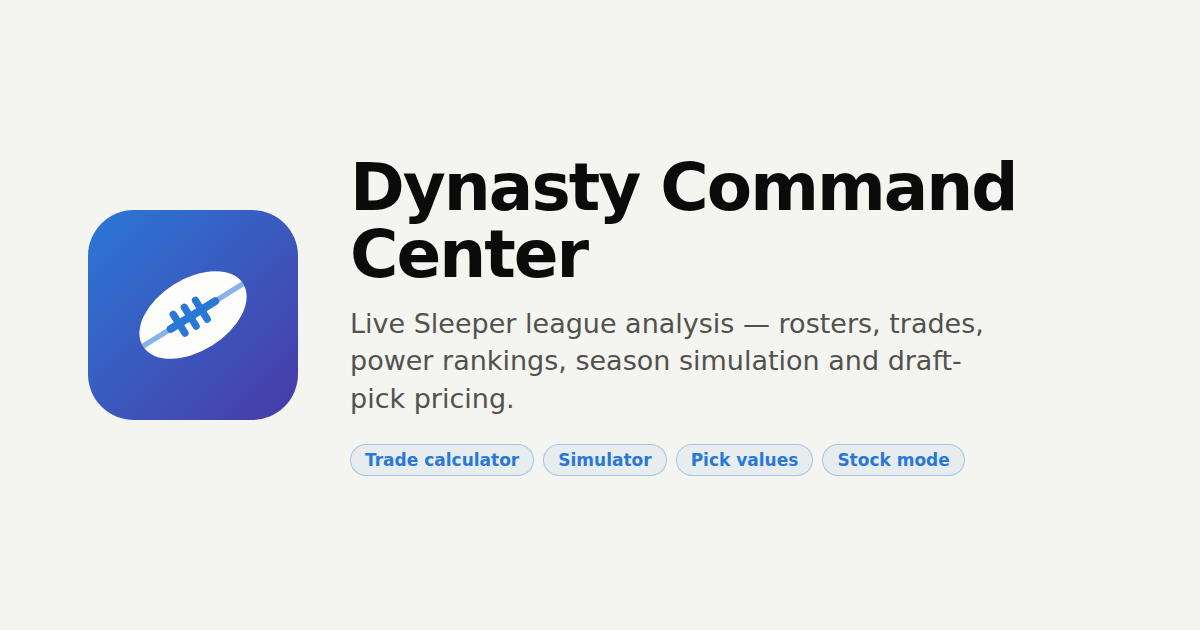
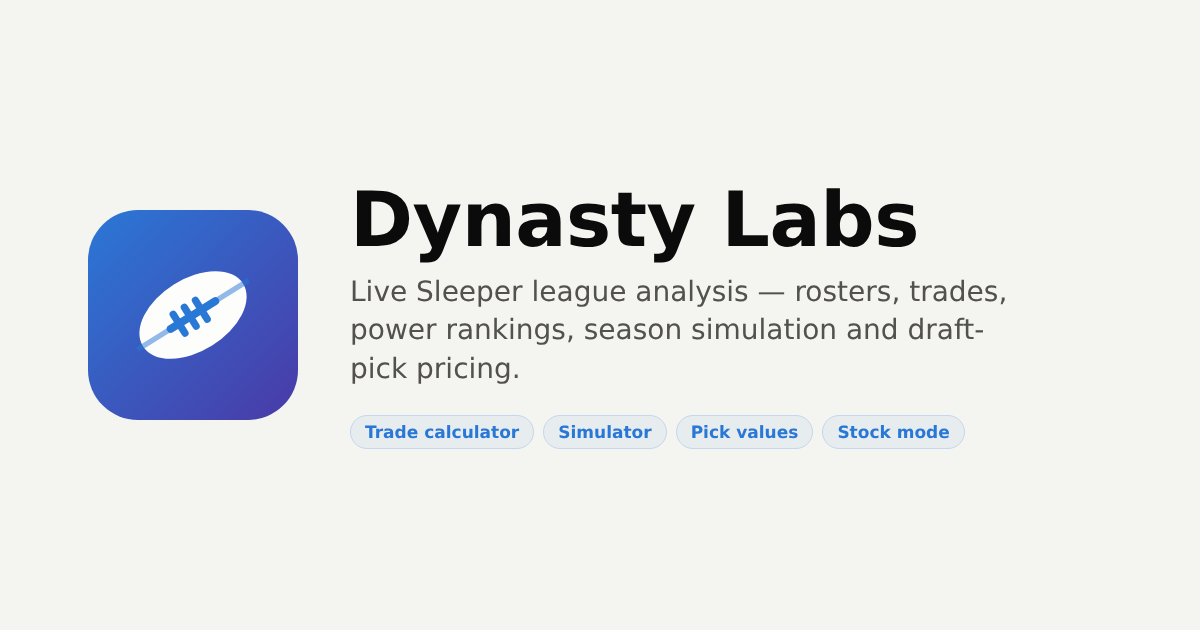
Rebrand to Dynasty Labs
Page title, social-preview and install names (title, og:title, og:site_name,
apple-mobile-web-app-title, web manifest name and short name), sidebar brand
(Dynasty / Labs, Redraft / Labs), start screen logo and headline, README title,
favicon label and the core.js header. The social-preview image is regenerated with
the new name and the same layout.

Left as they are: the web address (CNAME, og:url, og:image URL, README links)
until the new domain is pointed at the site, and the dcc: storage keys, which are
internal and would discard people's saved settings if renamed.

Claude-Session: https://claude.ai/code/session_01SwDgcgZWtr5AFUf8CSbdNt

Changed region(s): [[0.2775, 0.2413, 0.8633, 0.754], [0.2158, 0.6333, 0.2467, 0.6635], [0.2158, 0.3317, 0.2467, 0.3619]]

diff --git a/index.html b/index.html
@@ -8,7 +8,7 @@
      avatar is a URL its owner chose. Inline styles are allowed because the app sets them on elements. -->
 <meta http-equiv="Content-Security-Policy" content="default-src 'self'; script-src 'self' https://gc.zgo.at; style-src 'self' 'unsafe-inline'; img-src 'self' data: https:; connect-src 'self' https://api.sleeper.app https://api.sleeper.com https://api.fantasycalc.com https://site.api.espn.com https://lm-api-reads.fantasy.espn.com https://fantasy.espn.com https://coreyjohnsen.goatcounter.com; worker-src 'self'; object-src 'none'; base-uri 'self'; form-action 'none'">
 <meta name="viewport" content="width=device-width, initial-scale=1, viewport-fit=cover">
-<title>Dynasty Command Center</title>
+<title>Dynasty Labs</title>
 <meta name="description" content="Live Sleeper dynasty league analysis — rosters, trade calculator, power rankings, season simulation, draft-pick pricing and a hypothetical roster sandbox.">
 <meta name="color-scheme" content="light dark">
 <!-- the two media-matched colours are the fallback; once the page runs it keeps one plain tag in step with the theme and accent -->
@@ -18,11 +18,12 @@
 <!-- SITE-ONLY: these resolve when hosted; a bare local file just 404s them harmlessly -->
 <link rel="apple-touch-icon" href="/apple-touch-icon.png">
 <link rel="manifest" href="/site.webmanifest">
-<meta name="apple-mobile-web-app-title" content="Dynasty">
+<meta name="apple-mobile-web-app-title" content="Dynasty Labs">
 <meta name="apple-mobile-web-app-capable" content="yes">
 <meta name="mobile-web-app-capable" content="yes">
 <meta property="og:type" content="website">
-<meta property="og:title" content="Dynasty Command Center">
+<meta property="og:site_name" content="Dynasty Labs">
+<meta property="og:title" content="Dynasty Labs">
 <meta property="og:description" content="Live Sleeper dynasty league analysis — rosters, trade calculator, power rankings, season simulation, draft-pick pricing and a hypothetical roster sandbox.">
 <meta property="og:url" content="https://fantasy.johnsencorey.com/">
 <meta property="og:image" content="https://fantasy.johnsencorey.com/og-image.png">

diff --git a/js/shell.js b/js/shell.js
@@ -214,7 +214,7 @@ function render() {
       v.k === 'hypo' && HYP.on ? h('span.navdot', { title: hypCount() + ' hypothetical change' + (hypCount() === 1 ? '' : 's') + ' in effect' }, hypCount()) : null));
   });
   const side = h('div.side',
-    h('div.brand', h('div.mark', { html: MARK_SVG }), h('div', h('b', S.league && !isDynasty() ? 'Redraft' : 'Dynasty'), h('small', 'Command Center'))),
+    h('div.brand', h('div.mark', { html: MARK_SVG }), h('div', h('b', S.league && !isDynasty() ? 'Redraft' : 'Dynasty'), h('small', 'Labs'))),
     navItems,
     h('div.spacer'),
     h('div.foot',
@@ -345,8 +345,8 @@ function splash() {
   const featLabel = { week: 'Live scores & win odds', roster: 'Rosters & values', trade: 'Trade calculator', power: 'Power rankings', sim: 'Season simulator', draft: 'Draft board', stock: 'Value charts', flask: 'Hypothetical sandbox' };
   return h('div.splash',
     h('div.sp-art',
-      h('div.sp-logo', h('div.mark', { html: MARK_SVG }), h('b', 'Dynasty Command Center')),
-      h('h1', 'Every dynasty decision, ', h('span', 'one command center.')),
+      h('div.sp-logo', h('div.mark', { html: MARK_SVG }), h('b', 'Dynasty Labs')),
+      h('h1', 'Every dynasty decision, ', h('span', 'tested in the lab.')),
       h('p', 'Live analysis for any Sleeper league: who’s really winning, what a trade is worth, and what the season looks like when you play it a thousand times.'),
       h('div.sp-feats', feats.map(k => h('span', ico(k), featLabel[k])))),
     h('div.sp-form', box));

diff --git a/js/core.js b/js/core.js
@@ -1,6 +1,6 @@
 "use strict";
 /* ==================================================================
-   Dynasty Command Center — core
+   Dynasty Labs — core
    Live data: Sleeper API (league/rosters/matchups/drafts/players)
               FantasyCalc API (dynasty + redraft trade values, picks)
    ================================================================== */

diff --git a/README.md b/README.md
@@ -1,4 +1,4 @@
-# Dynasty Command Center
+# Dynasty Labs
 
 Live analysis for Sleeper dynasty leagues, served as a static site at
 **[fantasy.johnsencorey.com](https://fantasy.johnsencorey.com)**.
